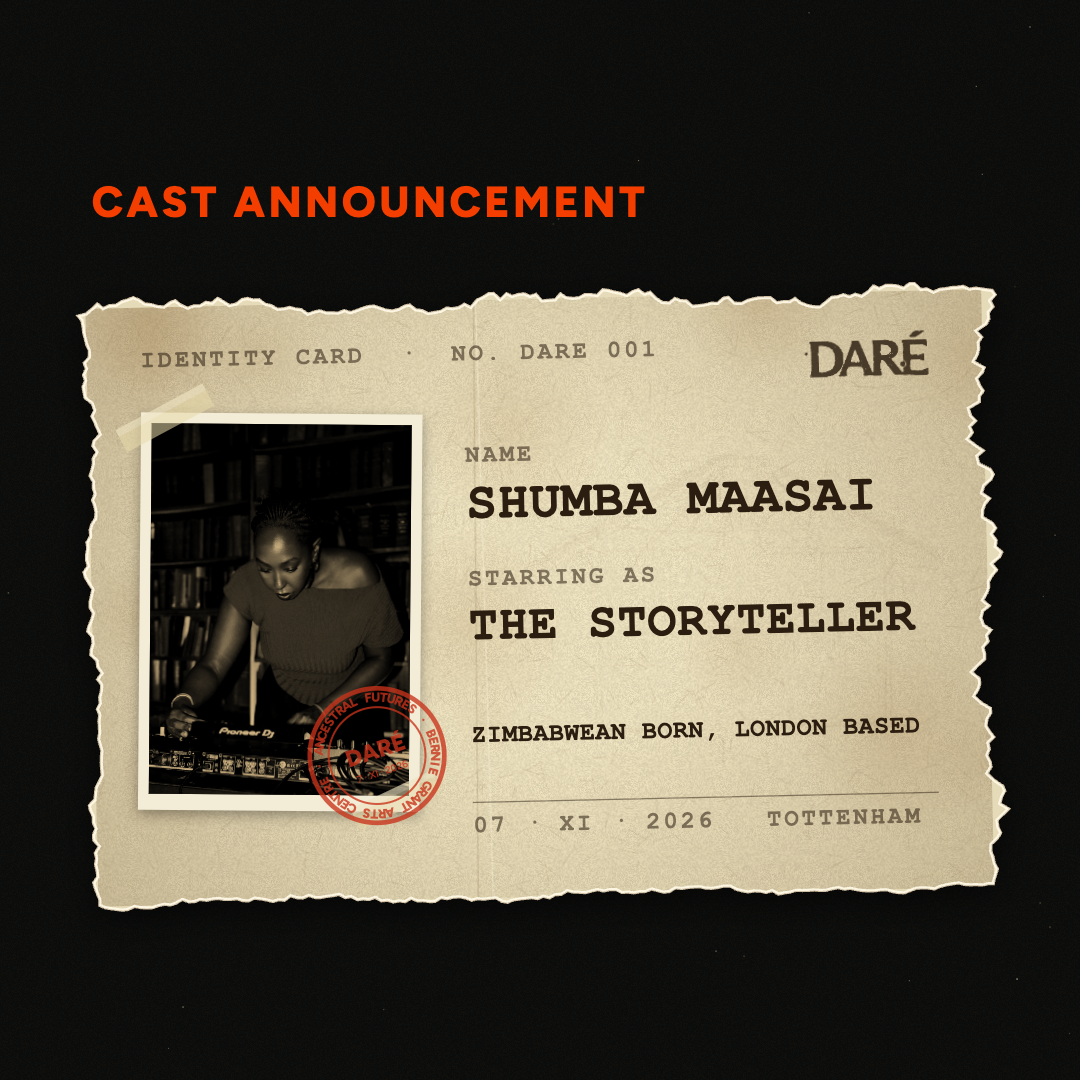
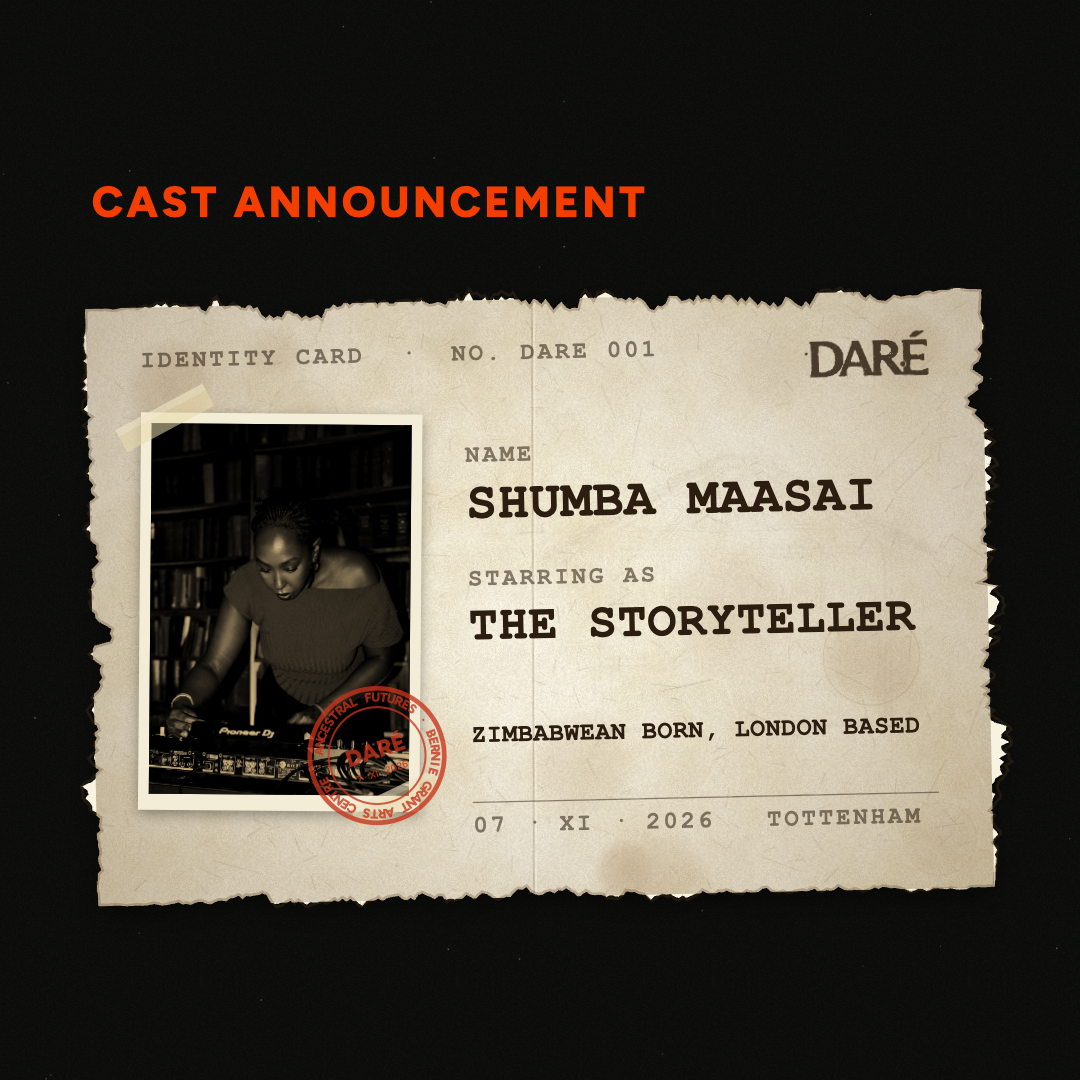
The paper is layered noise and the tear shows the sheet's white core
Paper from four clouds of noise laid over one another, the grain, long
and short fibres both ways, foxing with the odd darker ring, a tide
line where damp once reached, darker corners and a fold with a
highlight. The tear is a random walk that keeps most of its last step,
with the odd jag, and comes in two outlines from the same walk: the
printed surface, and the white fibrous core showing beyond it, with
loose fibres drawn outward from the edge.

diff --git a/public/cast.html b/public/cast.html
@@ -394,61 +394,104 @@ function mrz(text, len) {
 // ===========================================================
 // THE CARD
 // ===========================================================
-/* Paper, made once per size and kept: an uneven cream, the fibres,
-   the foxing, darker towards the edges, and one fold. Nothing in it is
-   a photograph; it is all drawn, so it never repeats from card to
-   card unless the seed does. */
+/* Paper, made once per size and kept. Several layers of mottled noise
+   at different scales, one over another, which is what a sheet looks
+   like under a lamp: large soft clouds, smaller ones, then the fibres
+   and the grain, the foxing, a darker edge, a fold. All drawn, so no
+   two cards share a sheet unless they share a seed. */
 const paperCache = {};
+function cloud(w, h, cell, r) {
+  const c = document.createElement('canvas'); c.width = Math.max(2, Math.ceil(w / cell)); c.height = Math.max(2, Math.ceil(h / cell));
+  const g = c.getContext('2d'); const id = g.createImageData(c.width, c.height);
+  for (let i = 0; i < id.data.length; i += 4) { const v = 110 + r() * 140; id.data[i] = id.data[i + 1] = id.data[i + 2] = v; id.data[i + 3] = 255; }
+  g.putImageData(id, 0, 0); return c;
+}
 function paper(w, h, seed) {
   const key = `${w}x${h}:${seed}`;
   if (paperCache[key]) return paperCache[key];
   const c = document.createElement('canvas'); c.width = w; c.height = h;
   const g = c.getContext('2d'); const r = rnd(seed);
-  g.fillStyle = '#e6dbb9'; g.fillRect(0, 0, w, h);
-  const img = g.getImageData(0, 0, w, h); const d = img.data;
-  for (let i = 0; i < d.length; i += 4) { const n = (r() - 0.5) * 28; d[i] += n; d[i + 1] += n; d[i + 2] += n * 0.85; }
-  g.putImageData(img, 0, 0);
-  g.strokeStyle = 'rgba(110,80,40,0.11)'; g.lineWidth = 1;
-  for (let i = 0; i < (w * h) / 700; i++) { const x = r() * w, y = r() * h, a = r() * Math.PI, l = 4 + r() * 22; g.beginPath(); g.moveTo(x, y); g.lineTo(x + Math.cos(a) * l, y + Math.sin(a) * l); g.stroke(); }
-  for (let i = 0; i < 14; i++) {
-    const x = r() * w, y = r() * h, rad = w * (0.02 + r() * 0.1);
-    const gr = g.createRadialGradient(x, y, 0, x, y, rad);
-    gr.addColorStop(0, `rgba(140,95,40,${0.05 + r() * 0.12})`); gr.addColorStop(1, 'rgba(140,95,40,0)');
-    g.fillStyle = gr; g.fillRect(x - rad, y - rad, rad * 2, rad * 2);
+  g.fillStyle = '#e3d7b4'; g.fillRect(0, 0, w, h);
+  g.imageSmoothingEnabled = true; g.imageSmoothingQuality = 'high';
+  // the clouds, coarse to fine, each laid on as light and shade
+  for (const [cell, alpha] of [[w / 5, 0.5], [w / 12, 0.35], [w / 30, 0.25], [w / 80, 0.18]]) {
+    g.save(); g.globalCompositeOperation = 'overlay'; g.globalAlpha = alpha;
+    g.drawImage(cloud(w, h, cell, r), -cell, -cell, w + cell * 2, h + cell * 2); g.restore();
   }
-  const v = g.createRadialGradient(w / 2, h / 2, Math.min(w, h) * 0.25, w / 2, h / 2, Math.max(w, h) * 0.72);
-  v.addColorStop(0, 'rgba(90,60,20,0)'); v.addColorStop(1, 'rgba(90,60,20,0.3)');
+  // the grain
+  const img = g.getImageData(0, 0, w, h); const d = img.data;
+  for (let i = 0; i < d.length; i += 4) { const n = (r() - 0.5) * 22; d[i] += n; d[i + 1] += n; d[i + 2] += n * 0.8; }
+  g.putImageData(img, 0, 0);
+  // the fibres, a few long and many short, both ways
+  for (let i = 0; i < (w * h) / 500; i++) {
+    const x = r() * w, y = r() * h, a = r() * Math.PI, l = 3 + r() * (r() < 0.1 ? 60 : 16);
+    g.strokeStyle = r() < 0.5 ? 'rgba(100,70,35,0.12)' : 'rgba(255,250,235,0.35)'; g.lineWidth = r() < 0.2 ? 1.5 : 1;
+    g.beginPath(); g.moveTo(x, y); g.lineTo(x + Math.cos(a) * l, y + Math.sin(a) * l); g.stroke();
+  }
+  // foxing: soft brown spots, a few with a darker ring
+  for (let i = 0; i < 18; i++) {
+    const x = r() * w, y = r() * h, rad = w * (0.012 + r() * 0.08);
+    const gr = g.createRadialGradient(x, y, 0, x, y, rad);
+    const a = 0.05 + r() * 0.14;
+    gr.addColorStop(0, `rgba(135,90,35,${a})`); gr.addColorStop(0.7, `rgba(135,90,35,${a * 0.5})`); gr.addColorStop(1, 'rgba(135,90,35,0)');
+    g.fillStyle = gr; g.fillRect(x - rad, y - rad, rad * 2, rad * 2);
+    if (r() < 0.3) { g.strokeStyle = `rgba(120,75,25,${a * 0.9})`; g.lineWidth = 1; g.beginPath(); g.arc(x, y, rad * 0.9, 0, Math.PI * 2); g.stroke(); }
+  }
+  // a tide line, where damp once reached
+  if (r() < 0.8) {
+    const ty = h * (0.15 + r() * 0.7); const amp = h * 0.03;
+    g.strokeStyle = 'rgba(125,85,35,0.22)'; g.lineWidth = Math.max(1, w * 0.002);
+    g.beginPath(); for (let x = 0; x <= w; x += 4) { const y = ty + Math.sin(x / w * 9 + seed) * amp + Math.sin(x / w * 31) * amp * 0.3; x ? g.lineTo(x, y) : g.moveTo(x, y); } g.stroke();
+  }
+  // darker towards the edges, and the corners more so
+  const v = g.createRadialGradient(w / 2, h / 2, Math.min(w, h) * 0.2, w / 2, h / 2, Math.max(w, h) * 0.7);
+  v.addColorStop(0, 'rgba(80,50,15,0)'); v.addColorStop(1, 'rgba(80,50,15,0.34)');
   g.fillStyle = v; g.fillRect(0, 0, w, h);
-  const fx = w * (0.42 + r() * 0.16);
-  g.strokeStyle = 'rgba(90,60,20,0.16)'; g.lineWidth = Math.max(1, w * 0.0015);
-  g.beginPath(); g.moveTo(fx, 0); g.lineTo(fx + (r() - 0.5) * w * 0.02, h); g.stroke();
-  g.strokeStyle = 'rgba(255,250,230,0.35)'; g.beginPath(); g.moveTo(fx + 2, 0); g.lineTo(fx + 2 + (r() - 0.5) * w * 0.02, h); g.stroke();
+  // the fold: a shadow and a highlight side by side
+  const fx = w * (0.42 + r() * 0.16), fdx = (r() - 0.5) * w * 0.03;
+  g.lineWidth = Math.max(1, w * 0.002);
+  g.strokeStyle = 'rgba(80,50,15,0.2)'; g.beginPath(); g.moveTo(fx, 0); g.lineTo(fx + fdx, h); g.stroke();
+  g.strokeStyle = 'rgba(255,250,232,0.45)'; g.beginPath(); g.moveTo(fx + 2, 0); g.lineTo(fx + fdx + 2, h); g.stroke();
   paperCache[key] = c;
   return c;
 }
 
-/* The torn edge, as a path. Each side is a line with three waves of
-   noise laid on it, a long one, a short one and a jitter, and the top
-   and right are rougher than the bottom and left, which is how a piece
-   torn from a larger sheet comes away. */
-function tornPath(ctx, x, y, w, h, seed) {
-  const r = rnd(seed); const pts = [];
+/* The tear. Each edge is a random walk that keeps most of its last
+   step, which is how a tear wanders, with the odd sharper jag. Two
+   outlines come from the same walk: the printed surface, and the white
+   fibrous core that shows a little beyond it where the paper came
+   apart. The top and right are rougher than the bottom and left. */
+const tearCache = {};
+function tearPoints(x, y, w, h, seed) {
+  const key = `${Math.round(x)},${Math.round(y)},${Math.round(w)},${Math.round(h)}:${seed}`;
+  if (tearCache[key]) return tearCache[key];
+  const r = rnd(seed + 11); const inner = [], outer = [];
   const edge = (x0, y0, x1, y1, rough) => {
-    const n = Math.max(14, Math.round(Math.hypot(x1 - x0, y1 - y0) / 6));
+    const n = Math.max(20, Math.round(Math.hypot(x1 - x0, y1 - y0) / 4));
     const len = Math.hypot(x1 - x0, y1 - y0); const ux = -(y1 - y0) / len, uy = (x1 - x0) / len;
-    const p1 = r() * 6.28, p2 = r() * 6.28, p3 = r() * 6.28;
+    let a = 0, drift = (r() - 0.5) * rough;
     for (let i = 0; i < n; i++) {
       const t = i / n;
-      const a = (Math.sin(t * 6.28 * 2.3 + p1) * 0.5 + Math.sin(t * 6.28 * 7.1 + p2) * 0.3 + Math.sin(t * 6.28 * 23 + p3) * 0.15 + (r() - 0.5) * 0.5) * rough;
-      pts.push([x0 + (x1 - x0) * t + ux * a, y0 + (y1 - y0) * t + uy * a]);
+      drift = drift * 0.97 + (r() - 0.5) * rough * 0.25;
+      a = a * 0.82 + (r() - 0.5) * rough * 0.9;
+      if (r() < 0.02) a += (r() - 0.5) * rough * 2.2;
+      const ease = Math.min(1, t * 6, (1 - t) * 6);
+      const off = (a + drift) * ease;
+      const fibre = off + (r() * 0.5 + 0.2) * rough * 0.9 * ease;
+      inner.push([x0 + (x1 - x0) * t + ux * off, y0 + (y1 - y0) * t + uy * off]);
+      outer.push([x0 + (x1 - x0) * t + ux * fibre, y0 + (y1 - y0) * t + uy * fibre]);
     }
   };
-  edge(x, y, x + w, y, w * 0.014);
-  edge(x + w, y, x + w, y + h, w * 0.018);
-  edge(x + w, y + h, x, y + h, w * 0.007);
-  edge(x, y + h, x, y, w * 0.011);
-  ctx.beginPath(); pts.forEach((p, i) => (i ? ctx.lineTo(p[0], p[1]) : ctx.moveTo(p[0], p[1]))); ctx.closePath();
+  edge(x, y, x + w, y, w * 0.016);
+  edge(x + w, y, x + w, y + h, w * 0.02);
+  edge(x + w, y + h, x, y + h, w * 0.009);
+  edge(x, y + h, x, y, w * 0.013);
+  tearCache[key] = { inner, outer };
+  return tearCache[key];
 }
+function pathOf(ctx, pts) { ctx.beginPath(); pts.forEach((p, i) => (i ? ctx.lineTo(p[0], p[1]) : ctx.moveTo(p[0], p[1]))); ctx.closePath(); }
+function tornPath(ctx, x, y, w, h, seed) { pathOf(ctx, tearPoints(x, y, w, h, seed).inner); }
+function fibrePath(ctx, x, y, w, h, seed) { pathOf(ctx, tearPoints(x, y, w, h, seed).outer); }
 
 // A strip of old tape, yellowed and half see-through, laid across a corner.
 function tape(ctx, x, y, w, h, angle) {
@@ -500,15 +543,24 @@ function draw(ctx, W, H, card, G, source, t) {
   const seed = card.seed || 7;
   ctx.save();
   ctx.translate(cx + cw / 2, cy + ch / 2); ctx.rotate(-0.022); ctx.translate(-(cx + cw / 2), -(cy + ch / 2));
-  ctx.save(); ctx.shadowColor = 'rgba(0,0,0,0.6)'; ctx.shadowBlur = W * 0.03; ctx.shadowOffsetY = W * 0.008;
-  tornPath(ctx, cx, cy, cw, ch, seed); ctx.fillStyle = '#e6dbb9'; ctx.fill(); ctx.restore();
+  // the white core of the sheet, showing where it came apart
+  ctx.save(); ctx.shadowColor = 'rgba(0,0,0,0.55)'; ctx.shadowBlur = W * 0.028; ctx.shadowOffsetY = W * 0.007;
+  fibrePath(ctx, cx, cy, cw, ch, seed); ctx.fillStyle = '#efe6cc'; ctx.fill(); ctx.restore();
+  ctx.save(); fibrePath(ctx, cx, cy, cw, ch, seed); ctx.clip();
+  ctx.globalAlpha = 0.5; ctx.drawImage(paper(Math.round(cw), Math.round(ch), seed), cx, cy); ctx.globalAlpha = 1;
+  ctx.fillStyle = 'rgba(255,252,240,0.55)'; ctx.fillRect(cx - W * 0.05, cy - W * 0.05, cw + W * 0.1, ch + W * 0.1);
+  // loose fibres, drawn outward from the printed edge
+  const tp = tearPoints(cx, cy, cw, ch, seed); const fr = rnd(seed + 5);
+  ctx.strokeStyle = 'rgba(190,165,120,0.5)'; ctx.lineWidth = 1;
+  for (let i = 0; i < tp.inner.length; i += 2) { const [ix, iy] = tp.inner[i]; const [ox, oy] = tp.outer[i]; if (fr() < 0.5) { ctx.beginPath(); ctx.moveTo(ix, iy); ctx.lineTo(ox + (fr() - 0.5) * 4, oy + (fr() - 0.5) * 4); ctx.stroke(); } }
+  ctx.restore();
+  // the printed surface
   ctx.save();
   tornPath(ctx, cx, cy, cw, ch, seed); ctx.clip();
   ctx.drawImage(paper(Math.round(cw), Math.round(ch), seed), cx, cy);
   if (ART.hutline) { const hw = cw * 0.5, hh = hw * (ART.hutline.height / ART.hutline.width); drawArt(ctx, ART.hutline, cx + cw * 0.47, cy + ch * 0.5 - hh / 2, hw, hh, '#5a3a1a', 0.1); }
-  // the torn edge's fibres, light along the inside of the tear
-  tornPath(ctx, cx, cy, cw, ch, seed); ctx.strokeStyle = 'rgba(255,250,232,0.9)'; ctx.lineWidth = Math.max(2, W * 0.006); ctx.stroke();
-  tornPath(ctx, cx, cy, cw, ch, seed); ctx.strokeStyle = 'rgba(120,85,45,0.35)'; ctx.lineWidth = Math.max(1, W * 0.002); ctx.stroke();
+  // a little shade just inside the tear, where the surface lifts
+  tornPath(ctx, cx, cy, cw, ch, seed); ctx.strokeStyle = 'rgba(90,60,25,0.28)'; ctx.lineWidth = Math.max(2, W * 0.005); ctx.stroke();
 
   const INKP = '#2b1d10';
   const ls = Math.round(ch * 0.04), vs = Math.round(ch * 0.085);
